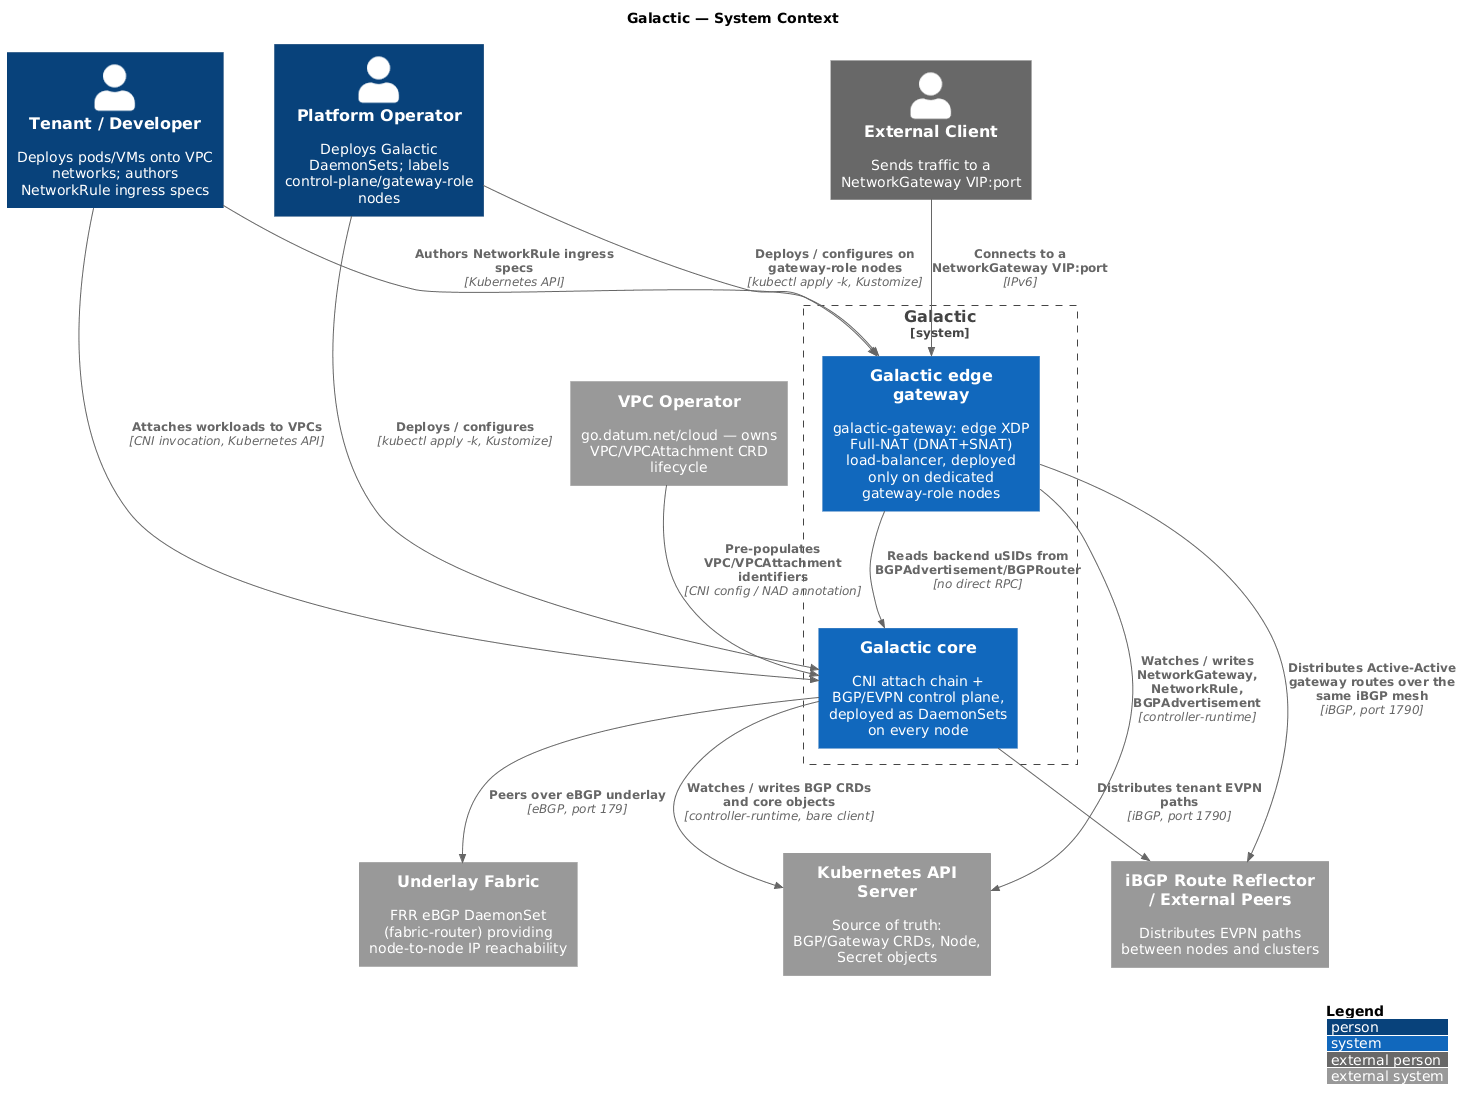
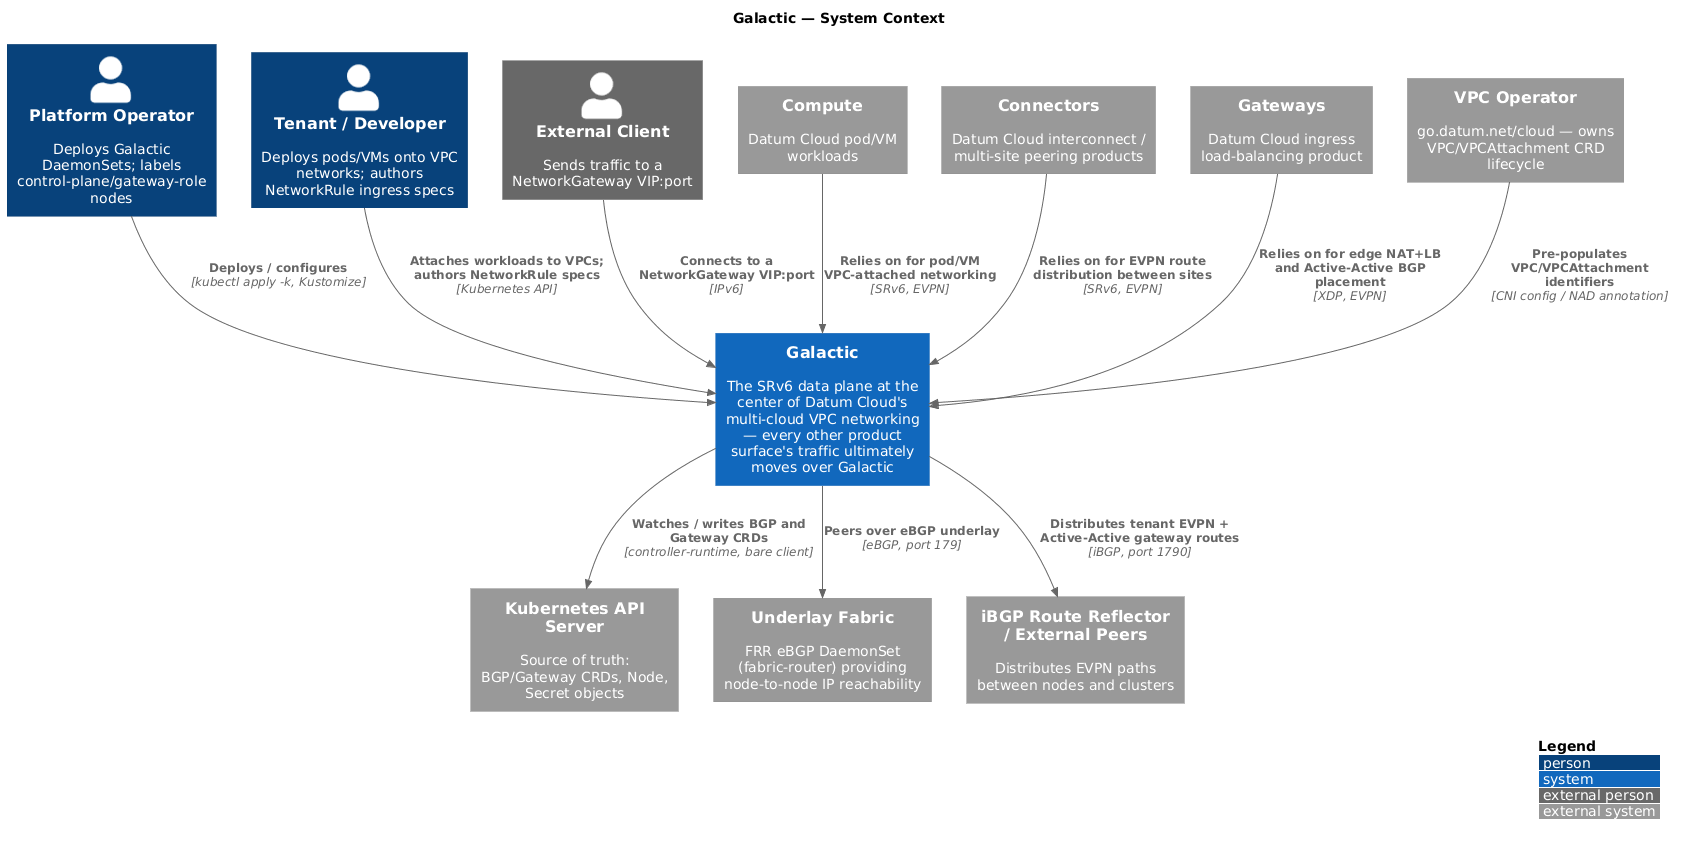
docs: Address gateway architecture diagram review feedback
- Drop Level 3 C4 Component diagrams (CNI chain, galactic-gateway
  internals) entirely — too detailed for C4 and quick to go stale;
  already covered in ARCHITECTURE-CNI.md/ARCHITECTURE-GATEWAY.md prose.
- Rework the System Context diagram to a single Galactic box framed
  around why it exists (the shared networking substrate under Compute,
  Connectors, and Gateways) instead of exposing the core/edge-gateway
  split, which read more like a Container diagram.
- Strip inline source file-path references from the gateway ingress
  packet-trace doc.

Addresses review comments from scotwells on PR #382.

diff --git a/docs/gateway/gateway-ingress-packet-trace.md b/docs/gateway/gateway-ingress-packet-trace.md
@@ -2,10 +2,10 @@
 
 This sequence diagram walks one ingress TCP flow through
 `galactic-gateway`'s edge XDP Full-NAT datapath end to end: an external
-client hitting a VIP, through the gateway node's `edge_nat` XDP program
-(`internal/plumbing/ebpf/edgeprog/edgenat.c`), across the SRv6 underlay to
-the backend Pod's worker node, and back. `2001:db8::1:8080` is an
-illustrative VIP:port, not a value from any config in this repo.
+client hitting a VIP, through the gateway node's `edge_nat` XDP program,
+across the SRv6 underlay to the backend Pod's worker node, and back.
+`2001:db8::1:8080` is an illustrative VIP:port, not a value from any config
+in this repo.
 
 Two things about this datapath are easy to get wrong and matter for
 reading the diagram correctly:
@@ -20,13 +20,12 @@ reading the diagram correctly:
   There is no kernel `seg6local` route involved (that path was removed in
   an earlier cutover — see
   [ARCHITECTURE-CNI.md](../agents/ARCHITECTURE-CNI.md)). A single TC-BPF
-  program, `usid_ingress` (`internal/plumbing/ebpf/prog/usid.c`), matches
-  the outer destination against its locator table, strips the outer IPv6
-  header, resolves the tenant VRF via a scoped FIB lookup, and redirects
-  straight into the Pod's veth (`bpf_redirect_peer()`) — all in the same
-  packet pass. The function this program implements is End.DT46
-  (dual-stack), not End.DT6 — this codebase's SRv6 type explicitly rejects
-  `End.DT6` as unsupported.
+  program, `usid_ingress`, matches the outer destination against its
+  locator table, strips the outer IPv6 header, resolves the tenant VRF via
+  a scoped FIB lookup, and redirects straight into the Pod's veth
+  (`bpf_redirect_peer()`) — all in the same packet pass. The function this
+  program implements is End.DT46 (dual-stack), not End.DT6 — this
+  codebase's SRv6 type explicitly rejects `End.DT6` as unsupported.
 
 ```mermaid
 sequenceDiagram
@@ -62,10 +61,8 @@ sequenceDiagram
 This diagram covers the control-plane side: how a `NetworkRule` CRD
 becomes `rule_table` rows the datapath above actually reads. The only CRDs
 `galactic-gateway`'s reconcilers watch are `NetworkGateway` and
-`NetworkRule` (`internal/controller/networkgateway_controller.go`,
-`networkrule_controller.go` — `SetupWithManager`); `BGPAdvertisement`/
-`BGPRouter` are read, not watched, purely to resolve backend uSIDs
-(`internal/controller/usidresolver.go`).
+`NetworkRule`; `BGPAdvertisement`/`BGPRouter` are read, not watched, purely
+to resolve backend uSIDs.
 
 The `rule_table` key deliberately carries **no tenant dimension** —
 `(proto, VIP address, VIP port)` alone disambiguates every rule on a node,
@@ -83,7 +80,7 @@ sequenceDiagram
 
     Note over K8s, XDP: --- CONTROL PLANE: MAP POPULATION FLOW ---
     K8s->>Op: Watch event (NetworkGateway, NetworkRule)
-    Note over Op: 1. List accepted, non-deleting NetworkRules: extract VIP(s), protocol, port, backend address:port pairs<br/>2. Resolve each backend's SRv6 uSID (usidresolver.go, matched against BGPAdvertisement/BGPRouter CRDs)
+    Note over Op: 1. List accepted, non-deleting NetworkRules: extract VIP(s), protocol, port, backend address:port pairs<br/>2. Resolve each backend's SRv6 uSID, matched against BGPAdvertisement/BGPRouter CRDs
     Note over Op: Build rule_table Key:<br/>(proto, VIP address, VIP port), no tenant dimension, a VIP is globally unique by construction
     Note over Op: Build rule_table Value:<br/>backend list [Pod ULA:port + WorkerNode uSID], up to 8 backends
     Op->>Map: bpf_map_update_elem() via edgemap.RuleTable (cilium/ebpf)

diff --git a/docs/architecture/README.md b/docs/architecture/README.md
@@ -21,13 +21,14 @@ render PlantUML inline.
 
 ## Level 1 — System Context
 
-Galactic as a whole in its environment: the people/systems that use it and
-the external systems it depends on. The `Galactic` boundary is split into
-two systems here — `Galactic core` (the CNI attach chain + BGP/EVPN control
-plane, on every node) and `Galactic edge gateway` (`galactic-gateway`, on
-dedicated gateway-role nodes only) — so the client-facing VIP path and the
-Active-Active BGP routes it publishes are visible even at this zoom level,
-rather than collapsing into one undifferentiated box.
+Galactic as a single box in its environment: why it exists, not how it's
+built internally. It's the shared networking substrate at the center of
+Datum Cloud's multi-cloud VPC story — the `Compute` (pod/VM workloads),
+`Connectors` (interconnect/multi-site peering), and `Gateways` (ingress
+load-balancing) product surfaces all move their traffic over Galactic,
+alongside the people/systems that deploy and configure it and the external
+systems it depends on (Kubernetes API, the companion VPC operator, the
+underlay fabric, iBGP peers).
 
 ![System Context](./context.png)
 
@@ -43,30 +44,6 @@ crash in one does not take down the other.
 
 ![Containers](./containers.png)
 
-## Level 3 — Component: the CNI chain's six binaries
-
-`galactic-veth` (the CNI-facing container-attach binary) is not a single
-process — it's a **chain of six small Go binaries**, all shipped in one
-`ghcr.io/datum-cloud/galactic-cni` image and staged onto each node by the
-`galactic-cni` installer. This diagram is the one place all six binaries —
-`galactic-cni`, `galactic-veth`, `galactic-tap`, `galactic-ipam`,
-`galactic-bgp`, `galactic-route`, plus the unrelated `vmtap-cni` — appear
-together, in the order the CNI runtime actually invokes them.
-
-![CNI Chain Components](./components/cni-chain.png)
-
-## Level 3 — Component: galactic-gateway internals
-
-`galactic-gateway`'s own internals: the two reconcilers
-(`NetworkGatewayReconciler`/`NetworkRuleReconciler`), the backend-uSID
-resolver, `Engine`'s convergence loop and the `Datapath`/`QuotaEnforcer`/
-`TelemetryEmitter` interfaces it drives, crash recovery, and the
-`edgemap`/`edgeattach` packages that load and talk to the compiled
-`edge_nat` XDP program. Mirrors the CNI chain diagram above one level
-down, for the gateway side instead.
-
-![Gateway Components](./components/gateway.png)
-
 ---
 
 ## Source files
@@ -75,5 +52,3 @@ down, for the gateway side instead.
 | ----------------------- | -------------------------------------------------------------- |
 | System Context           | [`context.puml`](./context.puml)                               |
 | Container                | [`containers.puml`](./containers.puml)                          |
-| CNI chain components     | [`components/cni-chain.puml`](./components/cni-chain.puml)       |
-| galactic-gateway components | [`components/gateway.puml`](./components/gateway.puml)      |
